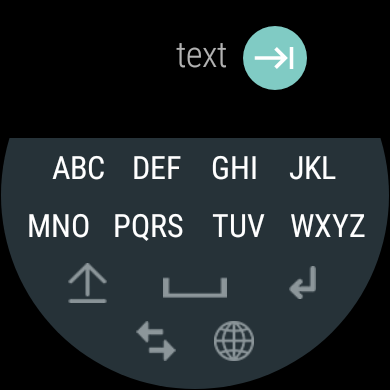
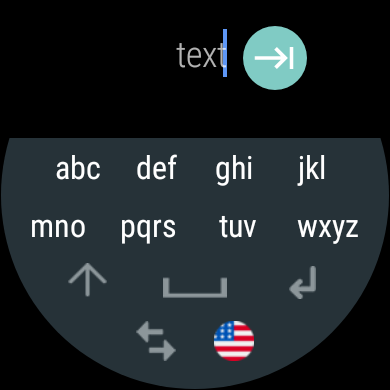
update project

diff --git a/projects/multi_tap_wear_keyboard/index.html b/projects/multi_tap_wear_keyboard/index.html
@@ -8,7 +8,7 @@
         <title>MultiTap Wear Keyboard - Mohsen Biglari</title><meta name="Description" content="Mohsen Biglari&#39;s personal website"><meta property="og:title" content="MultiTap Wear Keyboard" />
 <meta property="og:description" content="MultiTap Wear Keyboard brings the good old T9 keyboard to Wear OS smartwatches. It supports both multi-tapping and long-pressing keys.
 Currently, the supported languages/keyboards are as follows:
- English Persian Swedish Hebrew Spanish Emojis  If you have any suggestions, bugs report, or you like your language to be added to the app, please contact me.
+ English Persian Swedish Hebrew Spanish Italian Emojis  If you have any suggestions, bugs report, or you like your language to be added to the app, please contact me.
 🔗 Google Play
  Privacy Policy MultiTap Wear Keyboard app doesn&rsquo;t collect any user data." />
 <meta property="og:type" content="article" />
@@ -20,7 +20,7 @@ Currently, the supported languages/keyboards are as follows:
 <meta name="twitter:title" content="MultiTap Wear Keyboard"/>
 <meta name="twitter:description" content="MultiTap Wear Keyboard brings the good old T9 keyboard to Wear OS smartwatches. It supports both multi-tapping and long-pressing keys.
 Currently, the supported languages/keyboards are as follows:
- English Persian Swedish Hebrew Spanish Emojis  If you have any suggestions, bugs report, or you like your language to be added to the app, please contact me.
+ English Persian Swedish Hebrew Spanish Italian Emojis  If you have any suggestions, bugs report, or you like your language to be added to the app, please contact me.
 🔗 Google Play
  Privacy Policy MultiTap Wear Keyboard app doesn&rsquo;t collect any user data."/>
 <meta name="application-name" content="Mohsen Biglari">
@@ -35,7 +35,7 @@ Currently, the supported languages/keyboards are as follows:
         "mainEntityOfPage": {
             "@type": "WebPage",
             "@id": "http:\/\/mbt925.github.io\/projects\/multi_tap_wear_keyboard\/"
-        },"genre": "projects","wordcount":  77 ,
+        },"genre": "projects","wordcount":  78 ,
         "url": "http:\/\/mbt925.github.io\/projects\/multi_tap_wear_keyboard\/","datePublished": "2022-01-07T18:39:52+01:00","dateModified": "2022-01-07T18:39:52+01:00","publisher": {
             "@type": "Organization",
             "name": "Author"},"author": {
@@ -96,6 +96,7 @@ Currently, the supported languages/keyboards are as follows:
 <li>Swedish</li>
 <li>Hebrew</li>
 <li>Spanish</li>
+<li>Italian</li>
 <li>Emojis</li>
 </ul>
 <p>If you have any suggestions, bugs report, or you like your language to be added to the app, please contact me.</p>

diff --git a/content/projects/multi_tap_wear_keyboard.md b/content/projects/multi_tap_wear_keyboard.md
@@ -14,6 +14,7 @@ Currently, the supported languages/keyboards are as follows:
 - Swedish
 - Hebrew
 - Spanish
+- Italian
 - Emojis
 
 If you have any suggestions, bugs report, or you like your language to be added to the app, please contact me.
